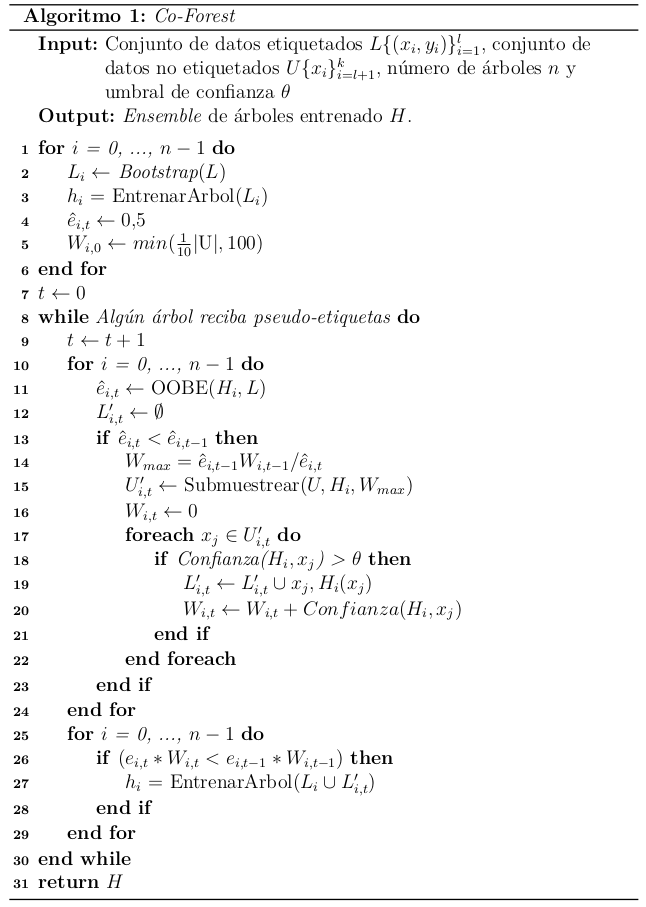
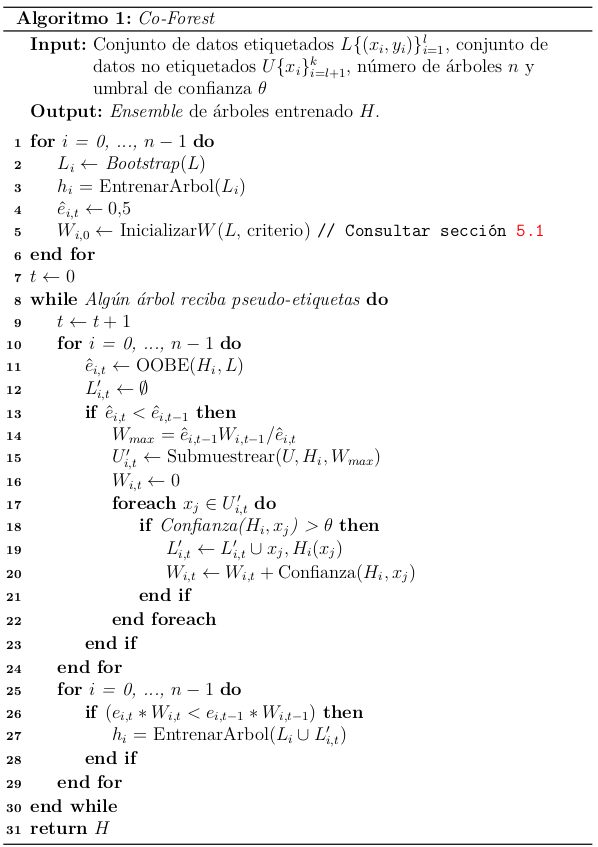
[S22] web: pseudocodes translated

diff --git a/src/krini_web/apps/templates/home/form-democratic-co.html b/src/krini_web/apps/templates/home/form-democratic-co.html
@@ -87,8 +87,13 @@
                 <td colspan="2" class="hiddenRow">
                     <div id="info-democratic-co" class="accordian-body collapse">
                         <p style="text-align: center;">
+                            {% if language == 'es' %}
                             <img src="/static/assets/img/theme/democraticco_pseudocode.png"
                                 alt="Pseudocódigo de Democratic Co">
+                            {% else %}
+                            <img src="/static/assets/img/theme/democraticco_pseudocode_en.png"
+                                alt="Pseudocode of Democratic Co">
+                            {% endif %}
                         </p>
                     </div>
                 </td>

diff --git a/src/krini_web/apps/templates/home/form-tri-training.html b/src/krini_web/apps/templates/home/form-tri-training.html
@@ -56,8 +56,13 @@
                 <td class="hiddenRow">
                     <div id="info-tri-training" class="accordian-body collapse">
                         <p style="text-align: center;">
+                            {% if language == 'es' %}
                             <img src="/static/assets/img/theme/tritraining_pseudocode.png"
                                 alt="Pseudocódigo de Tri Training">
+                            {% else %}
+                            <img src="/static/assets/img/theme/tritraining_pseudocode_en.png"
+                                alt="Tri Training pseudocode">
+                            {% endif %}
                         </p>
                     </div>
                 </td>

diff --git a/src/krini_web/apps/templates/home/form-co-forest.html b/src/krini_web/apps/templates/home/form-co-forest.html
@@ -50,7 +50,11 @@
                 <td colspan="2" class="hiddenRow">
                     <div id="info-coforest" class="accordian-body collapse">
                         <p style="text-align: center;">
+                            {% if language == 'es' %}
                             <img src="/static/assets/img/theme/coforest_pseudocode.png" alt="Pseudocódigo de Coforest">
+                            {% else %}
+                            <img src="/static/assets/img/theme/coforest_pseudocode_en.png" alt="Coforest pseudocode">
+                            {% endif %}
                         </p>
                     </div>
                 </td>

diff --git a/src/krini_web/apps/home/routes.py b/src/krini_web/apps/home/routes.py
@@ -618,7 +618,10 @@ def new_model():
         flash(message, "warning")
 
     return render_template(
-        "home/new-model.html", form=form, segment=get_segment(request)
+        "home/new-model.html",
+        form=form,
+        segment=get_segment(request),
+        language=session.get("language", BABEL_DEFAULT),
     )
 
 
